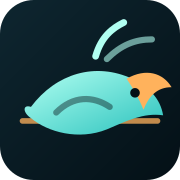
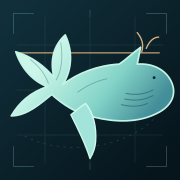
fix: refine whale emblem silhouette (#12)
* feat: redraw the whale emblem and app icons

* fix: refine whale emblem silhouette

diff --git a/index.html b/index.html
@@ -156,15 +156,7 @@
 
     <aside class="panel" id="panel">
         <div class="brand-row">
-            <svg class="brand-mark" viewBox="0 0 64 64" aria-hidden="true">
-                <rect x="8" y="8" width="48" height="48" rx="1" fill="rgba(124,231,215,0.05)" />
-                <path d="M13 38 C 20 27, 34 23, 47 28 C 51 30, 55 34, 56 40 C 50 39, 45 41, 38 44 C 28 49, 17 46, 12 41 C 10 39, 10 37, 13 38 Z" fill="#7ce7d7"/>
-                <path d="M45 28 C 51 24, 57 26, 60 31 C 56 31, 53 34, 51 38 C 49 33, 47 30, 45 28 Z" fill="#ffb25c"/>
-                <path d="M21 39 C 26 34, 32 34, 38 38" fill="none" stroke="#061017" stroke-width="2" stroke-linecap="round" opacity="0.45"/>
-                <circle cx="47" cy="33" r="1.7" fill="#061017"/>
-                <path d="M34 20 C 36 14, 39 11, 43 9" fill="none" stroke="#7ce7d7" stroke-width="2" stroke-linecap="round" opacity="0.85"/>
-                <path d="M38 21 C 42 16, 47 14, 52 14" fill="none" stroke="#7ce7d7" stroke-width="2" stroke-linecap="round" opacity="0.55"/>
-            </svg>
+            <img class="brand-mark" src="assets/whale-emblem.svg" alt="" width="60" height="60">
             <div>
                 <h1>Coexisting with Whales</h1>
                 <p class="subtitle">Whale records and shipping in Norwegian waters</p>

diff --git a/js/ocean-visual.js b/js/ocean-visual.js
@@ -150,7 +150,7 @@ export function initOceanIntro() {
     root.className = 'ocean-intro';
     const id = `ocean-intro-${++sequence}`;
     root.innerHTML = `<section class="ocean-intro__card" id="${id}-card" role="dialog" aria-modal="true" aria-labelledby="${id}-title" aria-describedby="${id}-caption" tabindex="-1" hidden>
-        <div class="ocean-intro__topline"><span>Coexisting with whales</span><button class="ocean-intro__close" type="button" aria-label="Dismiss introduction">×</button></div>
+        <div class="ocean-intro__topline"><span class="ocean-intro__brand"><img src="assets/whale-emblem.svg" alt="" width="36" height="36">Coexisting with whales</span><button class="ocean-intro__close" type="button" aria-label="Dismiss introduction">×</button></div>
         <div class="ocean-intro__composition"><header><p class="ocean-intro__eyebrow">Norway · whales &amp; vessels</p><h2 id="${id}-title">Room to surface.</h2></header>
         ${introDrawing(id)}${introDrawing(id, true)}
         <footer><p>Shared waters.</p><button class="ocean-intro__explore" type="button">Explore the map <span aria-hidden="true">↗</span></button></footer></div>

diff --git a/css/style.css b/css/style.css
@@ -1062,3 +1062,9 @@ button, input, select, .modal, .panel, .view-btn, .rl-badge, .control-btn,
 .ocean-diagram__heading,.ocean-readouts,.ocean-key,.ocean-diagram__caveat,.ocean-species,.ocean-method {grid-column:1/-1;}
 .ocean-diagram__heading{grid-row:1}.ocean-readouts{grid-row:2}.ocean-diagram__scene{grid-column:1;grid-row:3}.ocean-diagram__curve{grid-column:2;grid-row:3;max-height:300px;}
 }
+
+/* The emblem keeps its own ocean field so its engraving works in both themes. */
+.brand-mark { width:60px; height:60px; flex:0 0 60px; background:none; box-shadow:none; border:1px solid var(--border-strong); }
+@media(max-width:400px){.brand-mark{width:52px;height:52px;flex-basis:52px;}}
+.brand-row { grid-template-columns:auto minmax(0,1fr); }
+.snapshot-refresh { display:block; margin:8px 0 12px; padding:7px 10px; color:var(--accent); background:var(--bg-control); border:1px solid var(--border-strong); font:10px 'Roboto Mono',monospace; cursor:pointer; }

diff --git a/service-worker.js b/service-worker.js
@@ -1,7 +1,7 @@
 /* Versioned, same-origin application snapshot. No third party tiles are stored.
  * ASVS 1.2.2: cache only an explicit allowlist of paths from our own origin.
  */
-const VERSION = 'whales-4d07dbff75199405';
+const VERSION = 'whales-749a31ebf0adc0df';
 const SNAPSHOT_KEY = '__snapshot_info__';
 const CORE = [
     "./",
@@ -10,6 +10,7 @@ const CORE = [
     "docs/whale-images.html",
     "assets/whales/illustration-placeholder.svg",
     "assets/favicon.svg",
+    "assets/whale-emblem.svg",
     "js/app.js",
     "js/city-labels.js",
     "js/data.js",

diff --git a/css/ocean-visual.css b/css/ocean-visual.css
@@ -165,3 +165,6 @@ body:has(.modal-overlay.open) .ocean-intro .ocean-intro__replay { bottom: max(4p
 @media (prefers-reduced-motion: reduce) {
     .ocean-intro *, .ocean-diagram * { animation: none !important; transition: none !important; }
 }
+
+.ocean-intro__brand {display:flex;align-items:center;gap:12px;}
+.ocean-intro__brand img {display:block;flex-shrink:0;}

diff --git a/docs/PROGRESS.md b/docs/PROGRESS.md
@@ -1,5 +1,11 @@
 # Progress log
 
+## 2026-10-07: whale emblem
+
+Replaced the original whale mark with a vector emblem based on curved flukes, a long pectoral fin and engraved throat pleats. A restrained marine chart frame connects it to the site diagrams. The header and fullscreen introduction share the detailed asset. The favicon uses a simplified silhouette, with matching PNG and Apple touch exports. The local snapshot includes the new emblem.
+
+Checked the mark in both themes and small icon sizes. Existing interaction and offline regression checks remain applicable.
+
 ## 2026-10-07: marine diagrams and offline atlas
 
 Added a fullscreen replayable marine introduction, animated visual help and responsive vessel speed diagrams. Species cards provide local licensed photos, sourced facts and sample summaries. City labels stay above the heatmap. Controls use nearly square corners and compact mobile layouts.

diff --git a/README.md b/README.md
@@ -1,5 +1,5 @@
 <p align="center">
-  <img src="assets/favicon.svg" alt="Coexisting with Whales icon" width="92" height="92">
+  <img src="assets/whale-emblem.svg" alt="Coexisting with Whales icon" width="92" height="92">
 </p>
 
 # Coexisting with Whales
